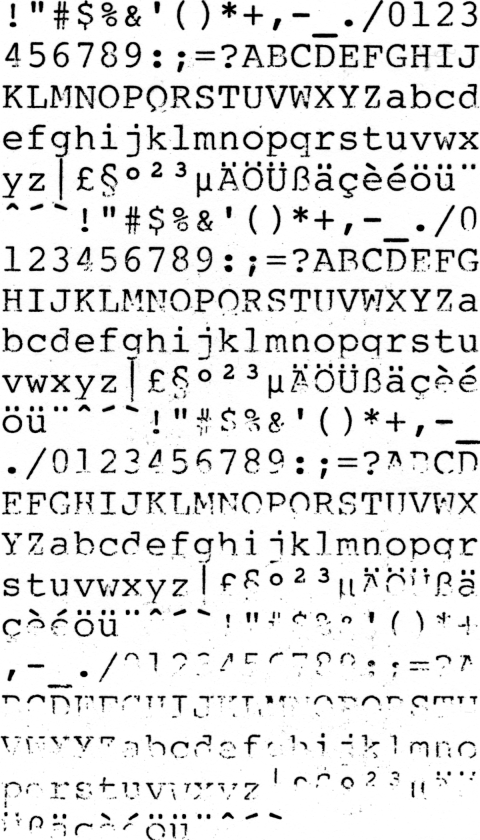
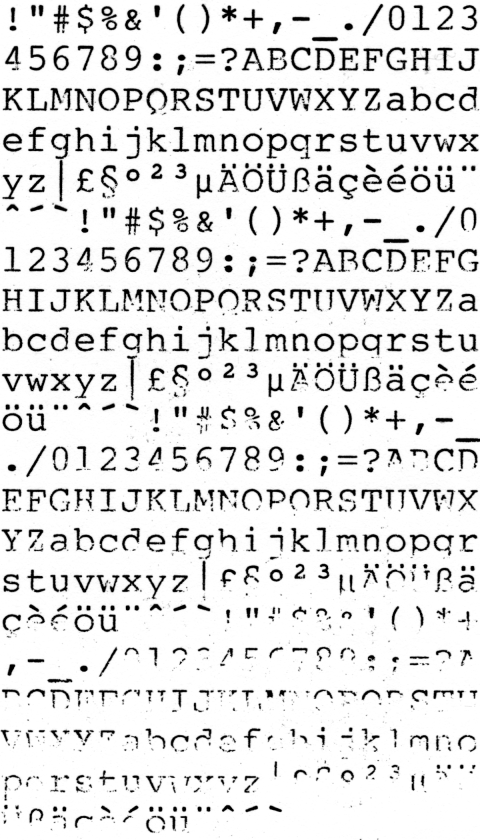
The rows come from the marks, because ink does not reach the cell edges
Asked to show the cut tiles for a visual check, the contact sheet showed
a period sinking through the four force blocks and an underscore
vanishing out of the bottom two. The tiles were being cut a little lower
in each block down the sheet.

The vertical grid was the ink extent divided by the row count, on the
reasoning that the outer rows are full of glyphs where the outer columns
are not. That is true and it is not the problem. Ink runs from the
tallest glyph's top to the lowest one's bottom, which is inside the block
by an ascender at one end and a descender at the other, so the pitch it
implies is short -- 98.52px against the marks' 99.90 on the Courier
sheet, 98.81 against 99.89 on the Helen. A percent and a bit is nothing
in one row and 29% of a cell by the twenty-first.

Which is the worst place for it. Force blocks are typed in order, so the
lightest one is at the bottom where the drift is largest, and it is the
block with the least ink to spare.

The marks answer it: one at each end of every row, struck at the hardest
force whatever the row itself was typed at, so they are legible on a
block that is not. A straight line through twenty-one of them gives a
pitch that cannot drift -- the residual from that line is 3.5px on one
sheet and 2.5px on the other. The phase they cannot give, because a
mark's ink runs cap height to baseline rather than cell top to cell
bottom, so it comes from centring the block of rows on the ink it
[…]

diff --git a/src/erika/make_charset.py b/src/erika/make_charset.py
@@ -815,6 +815,62 @@ def _find_sheet_marks(im: np.ndarray, cols: int) -> tuple[float, float] | None:
     return best[1], best[2]
 
 
+#: Two ink bands in a mark's column belong to the same mark if they are closer
+#: than this much of a row. The sheet's mark is an exclamation point, which is a
+#: stem and then a dot with a clear gap between them; the gap between one row and
+#: the next is several times larger. Anywhere from a tenth to three tenths gives
+#: exactly one band per row on both sheets measured.
+MARK_BAND_MERGE = 0.2
+
+
+def _mark_rows(im, left_c, right_c, cell, rows):
+    """Row origin and pitch, read off the registration marks. None if unclear.
+
+    Every row of the sheet carries a mark at each end, struck at the hardest
+    force whatever the row itself was typed at -- so on a sheet whose last block
+    is barely visible, the marks are still there to be measured. Twenty-one of
+    them down each edge is a ruler with twenty-one graduations, and a straight
+    line through it gives a pitch that does not drift.
+
+    The phase is a separate question, and the marks cannot answer it alone: a
+    mark's ink runs from its cap height to its baseline, not from the top of its
+    cell to the bottom. So the pitch comes from the marks and the *offset* comes
+    from centring the whole block of rows on the ink it contains, which splits
+    the ascender gap at the top against the descender gap at the bottom rather
+    than charging both to one end.
+    """
+    def centres(x):
+        lo, hi = int(round(x - cell * 0.35)), int(round(x + cell * 0.35))
+        strip = im[:, max(0, lo): min(im.shape[1], hi)]
+        if strip.size == 0:
+            return []
+        paper = float(np.percentile(im, 95))
+        profile = (strip < paper * 0.75).sum(axis=1)
+        if profile.max() <= 0:
+            return []
+        runs = _ink_runs(profile > profile.max() * 0.15)
+        rough = (runs[-1][1] - runs[0][0]) / rows if runs else 0.0
+        merged: list[list[int]] = []
+        for a, b in runs:
+            if merged and a - merged[-1][1] < rough * MARK_BAND_MERGE:
+                merged[-1][1] = b
+            else:
+                merged.append([a, b])
+        return [(a + b) / 2.0 for a, b in merged]
+
+    found = [c for c in (centres(left_c), centres(right_c)) if len(c) == rows]
+    if not found:
+        return None
+
+    index = np.arange(rows, dtype=float)
+    pitch = float(np.mean([np.polyfit(index, np.array(c), 1)[0] for c in found]))
+    if pitch <= 0:
+        return None
+
+    middle = float(np.mean([np.mean(c) for c in found]))
+    return middle - (rows - 1) / 2.0 * pitch - pitch / 2.0, pitch
+
+
 def _sheet_from_scan(scan_path, n_tiles, cols, cell_w, cell_h, deskew_scan=True):
     """Slice a scanned charset sheet into the same cell grid.
 
@@ -875,15 +931,30 @@ def _sheet_from_scan(scan_path, n_tiles, cols, cell_w, cell_h, deskew_scan=True)
         block_left = left_c + (first_cell - 0.5) * cell
         x0 = int(round(max(0.0, block_left)))
         x1 = int(round(min(float(im.shape[1]), block_left + cols * cell)))
+        # The rows, from the marks, before the marks are cropped away. The ink
+        # extent used to serve here on the reasoning that the outer rows are
+        # full of glyphs where the outer columns are not -- true, and not the
+        # problem. The problem is that ink extends from the tallest glyph's top
+        # to the lowest one's bottom, which is *inside* the block by an ascender
+        # at one end and a descender at the other. Dividing that by the row
+        # count gives a pitch a percent or so short, which is nothing in one row
+        # and a quarter of a cell by the twenty-first: on the first two real
+        # sheets it came out 1.4% and 1.1% short, drifting 29% and 23% of a row
+        # over the sheet. Every tile below the first few then carries a slice of
+        # the row above it, worst at the bottom, which is exactly where the
+        # lightest strike force was typed.
+        band = _mark_rows(im, left_c, right_c, cell, rows)
         im = im[:, x0:x1]
-        # Vertically the ink extent is the honest crop and always was: every
-        # outer row has `cols` glyphs defining its extreme where an outer column
-        # has only `rows`, so this is the axis that did not need marks. Taken
-        # from the block alone, with the marks now cropped away.
-        paper = float(np.percentile(im, 95))
-        rows_of = _ink_extent(im < paper * 0.75, axis=1)
-        if rows_of is not None:
-            im = im[rows_of[0]: rows_of[1] + 1]
+        if band is not None:
+            top, pitch = band
+            y0 = int(round(top))
+            y1 = int(round(top + rows * pitch))
+            im = im[max(0, y0): min(im.shape[0], y1)]
+        else:
+            paper = float(np.percentile(im, 95))
+            rows_of = _ink_extent(im < paper * 0.75, axis=1)
+            if rows_of is not None:
+                im = im[rows_of[0]: rows_of[1] + 1]
 
     im = cv2.resize(im, (cols * cell_w, rows * cell_h), interpolation=cv2.INTER_AREA)
     # The sheet is mostly paper, so a high percentile *is* the paper -- a robust

diff --git a/src/tests/test_erika.py b/src/tests/test_erika.py
@@ -4047,3 +4047,58 @@ def test_a_glyph_missing_from_a_lighter_force_is_not_refused(tmp_path):
         sheet[r * 40: (r + 1) * 40, c * 24: (c + 1) * 24] = 1.0
     chars = [chr(65 + i % 26) for i in range(n_tiles)]
     assert check_scan_hardest_block(sheet, cols, rows, n_tiles, block, chars) is None
+
+
+def test_the_rows_come_from_the_marks_and_not_from_the_ink(tmp_path):
+    """Ink runs from the tallest glyph's top to the lowest one's bottom.
+
+    Which is inside the block by an ascender at one end and a descender at the
+    other, so dividing it by the row count gives a pitch that is short. Nothing
+    in one row, a quarter of a cell by the twenty-first -- and the twenty-first
+    row is where the lightest strike force was typed, so the tiles it damages
+    most are the ones with least ink to spare. On the first real sheet the ink
+    extent implied 98.5px where the marks say 99.9.
+    """
+    import cv2
+
+    from erika.make_charset import _ink_extent, _mark_rows, sheet_mark_cells
+
+    cols, rows = 20, 21
+    left_cell, first_cell, right_cell = sheet_mark_cells(cols)
+    cell, pitch, margin = 40, 100, 60
+    im = np.full((margin * 2 + rows * pitch, margin * 2 + (right_cell + 1) * cell),
+                 250, np.uint8)
+    for row in range(rows):
+        y = margin + row * pitch
+        # The marks: a stem and a dot under it, like the '!' the sheet types.
+        for c in (left_cell, right_cell):
+            x = margin + c * cell + int(cell * 0.45)
+            im[y + 20: y + 62, x: x + 5] = 30
+            im[y + 70: y + 78, x: x + 5] = 30
+        # Glyphs that sit well inside their cells, which is what misleads the
+        # ink extent: 22 pixels of clearance at the top, 14 at the bottom.
+        for column in range(cols):
+            x = margin + (first_cell + column) * cell + 6
+            im[y + 22: y + pitch - 14, x: x + cell - 12] = 60
+    path = str(tmp_path / "rows.png")
+    cv2.imwrite(path, im)
+
+    read = cv2.imread(path, cv2.IMREAD_GRAYSCALE)
+    left_c = margin + left_cell * cell + int(cell * 0.45) + 2
+    right_c = margin + right_cell * cell + int(cell * 0.45) + 2
+    band = _mark_rows(read, left_c, right_c, cell, rows)
+    assert band is not None, "twenty-one marks down each edge and none were found"
+    top, found = band
+    assert found == pytest.approx(pitch, abs=0.5), (
+        f"the marks say {found:.2f}px where the sheet was drawn at {pitch}"
+    )
+
+    # And what the ink alone would have said, which is the bug this replaces.
+    block = read[:, margin + first_cell * cell:
+                 margin + (first_cell + cols) * cell]
+    extent = _ink_extent(block < 250 * 0.75, axis=1)
+    from_ink = (extent[1] - extent[0] + 1) / rows
+    assert from_ink < pitch - 1, "the fixture no longer reproduces the bug"
+    assert abs(found - pitch) < abs(from_ink - pitch) / 3, (
+        f"marks {found:.2f} are no better than ink {from_ink:.2f} against {pitch}"
+    )

diff --git a/CLAUDE.md b/CLAUDE.md
@@ -180,9 +180,19 @@ because each produced a *plausible* charset rather than an error:
 | the vertical extent | any ink at all, so three pixels of dust put the grid a quarter too tall and three rows too high | a line must carry `INK_LINE_FLOOR` of the heaviest line's ink |
 | a column of the sheet | any column with ink on two rows, so one overhanging glyph welded twenty columns into four | a column must carry `COLUMN_INK_FLOOR` of the heaviest column |
 | the registration marks | assumed to be the outermost ink runs, so one speck outside the right-hand mark hid both | the best-fitting *pair*, by width, isolation and the cell width they imply |
+| the row grid | the ink extent divided by the row count, which is short by an ascender and a descender — 1.4% on the first sheet, compounding to a quarter of a cell by row 21 | pitch from a straight line through the marks down each edge, phase from centring the block on its ink |
 
 Each threshold sits in the middle of a plateau measured on both sheets, with an
-order of magnitude between what it must keep and what it must ignore. And when
+order of magnitude between what it must keep and what it must ignore.
+
+The row grid is the one to understand, because it is the only one that produced a
+charset good enough to look right. The marks are struck at the hardest force
+whatever their row was typed at, so twenty-one of them down each edge is a ruler
+that survives a block typed too light to read — which is exactly the block the
+drift damaged most, since the lightest force is typed last and the error
+accumulates down the sheet. Measured between the two darkest force blocks, where
+every glyph is fully formed and any offset is registration rather than missing
+ink, this took the median from 2.80px to 1.03px of a 40px cell. And when
 the marks are not found, the fallback now crops to the ink — it used to resize
 the whole page, margins included, which read the sheet as almost entirely blank.
 
